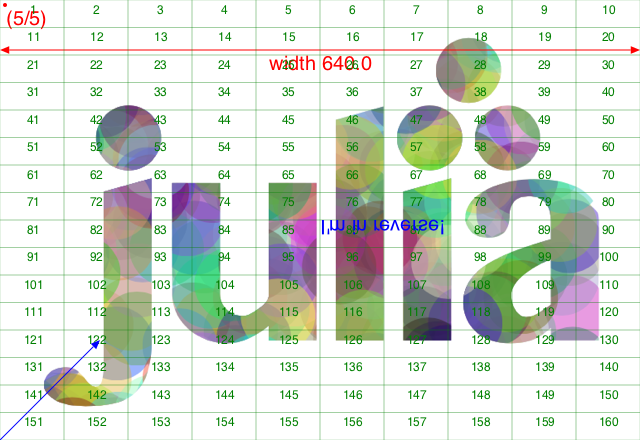
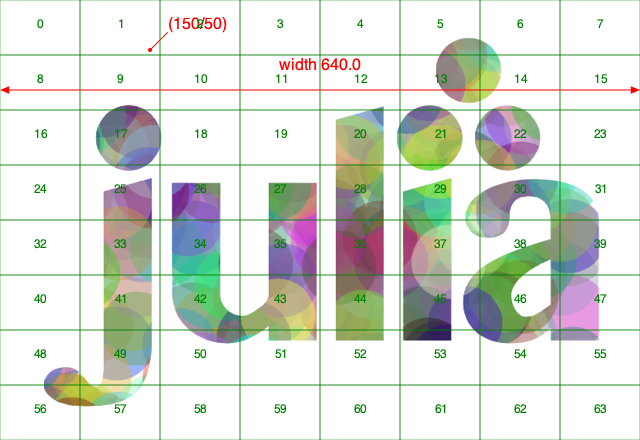
build based on 58f0cea

diff --git a/latest/index.html b/latest/index.html
@@ -1,2 +1,2 @@
 <!DOCTYPE html>
-<html lang="en"><head><meta charset="UTF-8"/><meta name="viewport" content="width=device-width, initial-scale=1.0"/><title>Introduction to Luxor · Luxor</title><link href="https://cdnjs.cloudflare.com/ajax/libs/normalize/4.2.0/normalize.min.css" rel="stylesheet" type="text/css"/><link href="https://fonts.googleapis.com/css?family=Lato|Roboto+Mono" rel="stylesheet" type="text/css"/><link href="https://cdnjs.cloudflare.com/ajax/libs/font-awesome/4.6.3/css/font-awesome.min.css" rel="stylesheet" type="text/css"/><link href="https://cdnjs.cloudflare.com/ajax/libs/highlight.js/9.12.0/styles/default.min.css" rel="stylesheet" type="text/css"/><script>documenterBaseURL="."</script><script src="https://cdnjs.cloudflare.com/ajax/libs/require.js/2.2.0/require.min.js" data-main="assets/documenter.js"></script><script src="siteinfo.js"></script><script src="../versions.js"></script><link href="assets/documenter.css" rel="stylesheet" type="text/css"/></head><body><nav class="toc"><a href="index.html"><img class="logo" src="assets/logo.png" alt="Luxor logo"/></a><h1>Luxor</h1><select id="version-selector" onChange="window.location.href=this.value" style="visibility: hidden"></select><form class="search" id="search-form" action="search.html"><input id="search-query" name="q" type="text" placeholder="Search docs"/></form><ul><li class="current"><a class="toctext" href="index.html">Introduction to Luxor</a><ul class="internal"><li><a class="toctext" href="#Installation-and-basic-usage-1">Installation and basic usage</a></li><li><a class="toctext" href="#Documentation-1">Documentation</a></li></ul></li><li><a class="toctext" href="examples.html">A few examples</a></li><li><a class="toctext" href="tutorial.html">Tutorial</a></li><li><a class="toctext" href="basics.html">Basic concepts</a></li><li><a class="toctext" href="simplegraphics.html">Simple shapes</a></li><li><a class="toctext" href="moregraphics.html">More graphics</a></li><li><a class="toctext" href="geometrytools.html">Geometry tools</a></li><li><a class="toctext" href="tables-grids.html">Tables and grids</a></li><li><a class="toctext" href="colors-styles.html">Colors and styles</a></li><li><a class="toctext" href="polygons.html">Polygons and paths</a></li><li><a class="toctext" href="text.html">Text</a></li><li><a class="toctext" href="transforms.html">Transforms and matrices</a></li><li><a class="toctext" href="clipping.html">Clipping</a></li><li><a class="toctext" href="images.html">Images</a></li><li><a class="toctext" href="turtle.html">Turtle graphics</a></li><li><a class="toctext" href="animation.html">Animation</a></li><li><a class="toctext" href="moreexamples.html">More examples</a></li><li><a class="toctext" href="functionindex.html">Index</a></li></ul></nav><article id="docs"><header><nav><ul><li><a href="index.html">Introduction to Luxor</a></li></ul><a class="edit-page" href="https://github.com/JuliaGraphics/Luxor.jl/blob/master/docs/src/index.md"><span class="fa"></span> Edit on GitHub</a></nav><hr/><div id="topbar"><span>Introduction to Luxor</span><a class="fa fa-bars" href="#"></a></div></header><h1><a class="nav-anchor" id="Introduction-to-Luxor-1" href="#Introduction-to-Luxor-1">Introduction to Luxor</a></h1><p>Luxor is a Julia package for drawing simple static vector graphics. It provides basic drawing functions and utilities for working with shapes, polygons, clipping masks, PNG images, turtle graphics, animations, and shapefiles.</p><p>The focus of Luxor is on simplicity and ease of use: it should be easier to use than plain <a href="https://github.com/JuliaLang/Cairo.jl">Cairo.jl</a>, with shorter names, fewer underscores, default contexts, and simplified functions.</p><p>Luxor is thoroughly procedural and static: your code issues a sequence of simple graphics &#39;commands&#39; until you&#39;ve completed a drawing, then the results are saved into a PDF, PNG, SVG, or EPS file.</p><p>There are some Luxor-related videos on <a href="https://www.youtube.com/channel/UCfd52kTA5JpzOEItSqXLQxg">YouTube</a>, and some Luxor-related blog posts at <a href="https://cormullion.github.io/">cormullion.github.io/</a>.</p><p>Luxor isn&#39;t interactive: for interactive graphics, look at <a href="https://github.com/JuliaGraphics/Gtk.jl">Gtk.jl</a>, <a href="https://github.com/JuliaGL/GLVisualize.jl">GLVisualize</a>, and <a href="https://github.com/JuliaPlots/Makie.jl">Makie</a>.</p><p>Please submit issues and pull requests on <a href="https://github.com/JuliaGraphics/Luxor.jl">GitHub</a>. Original version by <a href="https://github.com/cormullion">cormullion</a>, much improved with contributions from the Julia community.</p><h2><a class="nav-anchor" id="Installation-and-basic-usage-1" href="#Installation-and-basic-usage-1">Installation and basic usage</a></h2><p>Install the package using the package manager:</p><pre><code class="language-none">] add Luxor</code></pre><p>Cairo.jl and Colors.jl will be installed if necessary.</p><p>To use Luxor, type:</p><pre><code class="language-none">using Luxor</code></pre><p>To test:</p><pre><code class="language-none">julia&gt; @svg juliacircles()</code></pre><p>or</p><pre><code class="language-none">julia&gt; @png juliacircles()</code></pre><h2><a class="nav-anchor" id="Documentation-1" href="#Documentation-1">Documentation</a></h2><p>The documentation was built using <a href="https://github.com/JuliaDocs">Documenter.jl</a>.</p><div><pre><code class="language-none">Documentation built 2018-09-28T15:55:13.145 with Julia 1.0.0</code></pre></div><footer><hr/><a class="next" href="examples.html"><span class="direction">Next</span><span class="title">A few examples</span></a></footer></article></body></html>
+<html lang="en"><head><meta charset="UTF-8"/><meta name="viewport" content="width=device-width, initial-scale=1.0"/><title>Introduction to Luxor · Luxor</title><link href="https://cdnjs.cloudflare.com/ajax/libs/normalize/4.2.0/normalize.min.css" rel="stylesheet" type="text/css"/><link href="https://fonts.googleapis.com/css?family=Lato|Roboto+Mono" rel="stylesheet" type="text/css"/><link href="https://cdnjs.cloudflare.com/ajax/libs/font-awesome/4.6.3/css/font-awesome.min.css" rel="stylesheet" type="text/css"/><link href="https://cdnjs.cloudflare.com/ajax/libs/highlight.js/9.12.0/styles/default.min.css" rel="stylesheet" type="text/css"/><script>documenterBaseURL="."</script><script src="https://cdnjs.cloudflare.com/ajax/libs/require.js/2.2.0/require.min.js" data-main="assets/documenter.js"></script><script src="siteinfo.js"></script><script src="../versions.js"></script><link href="assets/documenter.css" rel="stylesheet" type="text/css"/></head><body><nav class="toc"><a href="index.html"><img class="logo" src="assets/logo.png" alt="Luxor logo"/></a><h1>Luxor</h1><select id="version-selector" onChange="window.location.href=this.value" style="visibility: hidden"></select><form class="search" id="search-form" action="search.html"><input id="search-query" name="q" type="text" placeholder="Search docs"/></form><ul><li class="current"><a class="toctext" href="index.html">Introduction to Luxor</a><ul class="internal"><li><a class="toctext" href="#Installation-and-basic-usage-1">Installation and basic usage</a></li><li><a class="toctext" href="#Documentation-1">Documentation</a></li></ul></li><li><a class="toctext" href="examples.html">A few examples</a></li><li><a class="toctext" href="tutorial.html">Tutorial</a></li><li><a class="toctext" href="basics.html">Basic concepts</a></li><li><a class="toctext" href="simplegraphics.html">Simple shapes</a></li><li><a class="toctext" href="moregraphics.html">More graphics</a></li><li><a class="toctext" href="geometrytools.html">Geometry tools</a></li><li><a class="toctext" href="tables-grids.html">Tables and grids</a></li><li><a class="toctext" href="colors-styles.html">Colors and styles</a></li><li><a class="toctext" href="polygons.html">Polygons and paths</a></li><li><a class="toctext" href="text.html">Text</a></li><li><a class="toctext" href="transforms.html">Transforms and matrices</a></li><li><a class="toctext" href="clipping.html">Clipping</a></li><li><a class="toctext" href="images.html">Images</a></li><li><a class="toctext" href="turtle.html">Turtle graphics</a></li><li><a class="toctext" href="animation.html">Animation</a></li><li><a class="toctext" href="moreexamples.html">More examples</a></li><li><a class="toctext" href="functionindex.html">Index</a></li></ul></nav><article id="docs"><header><nav><ul><li><a href="index.html">Introduction to Luxor</a></li></ul><a class="edit-page" href="https://github.com/JuliaGraphics/Luxor.jl/blob/master/docs/src/index.md"><span class="fa"></span> Edit on GitHub</a></nav><hr/><div id="topbar"><span>Introduction to Luxor</span><a class="fa fa-bars" href="#"></a></div></header><h1><a class="nav-anchor" id="Introduction-to-Luxor-1" href="#Introduction-to-Luxor-1">Introduction to Luxor</a></h1><p>Luxor is a Julia package for drawing simple static vector graphics. It provides basic drawing functions and utilities for working with shapes, polygons, clipping masks, PNG images, turtle graphics, animations, and shapefiles.</p><p>The focus of Luxor is on simplicity and ease of use: it should be easier to use than plain <a href="https://github.com/JuliaLang/Cairo.jl">Cairo.jl</a>, with shorter names, fewer underscores, default contexts, and simplified functions.</p><p>Luxor is thoroughly procedural and static: your code issues a sequence of simple graphics &#39;commands&#39; until you&#39;ve completed a drawing, then the results are saved into a PDF, PNG, SVG, or EPS file.</p><p>There are some Luxor-related videos on <a href="https://www.youtube.com/channel/UCfd52kTA5JpzOEItSqXLQxg">YouTube</a>, and some Luxor-related blog posts at <a href="https://cormullion.github.io/">cormullion.github.io/</a>.</p><p>Luxor isn&#39;t interactive: for interactive graphics, look at <a href="https://github.com/JuliaGraphics/Gtk.jl">Gtk.jl</a>, <a href="https://github.com/JuliaGL/GLVisualize.jl">GLVisualize</a>, and <a href="https://github.com/JuliaPlots/Makie.jl">Makie</a>.</p><p>Please submit issues and pull requests on <a href="https://github.com/JuliaGraphics/Luxor.jl">GitHub</a>. Original version by <a href="https://github.com/cormullion">cormullion</a>, much improved with contributions from the Julia community.</p><h2><a class="nav-anchor" id="Installation-and-basic-usage-1" href="#Installation-and-basic-usage-1">Installation and basic usage</a></h2><p>Install the package using the package manager:</p><pre><code class="language-none">] add Luxor</code></pre><p>Cairo.jl and Colors.jl will be installed if necessary.</p><p>To use Luxor, type:</p><pre><code class="language-none">using Luxor</code></pre><p>To test:</p><pre><code class="language-none">julia&gt; @svg juliacircles()</code></pre><p>or</p><pre><code class="language-none">julia&gt; @png juliacircles()</code></pre><h2><a class="nav-anchor" id="Documentation-1" href="#Documentation-1">Documentation</a></h2><p>The documentation was built using <a href="https://github.com/JuliaDocs">Documenter.jl</a>.</p><div><pre><code class="language-none">Documentation built 2018-10-03T10:18:51.167 with Julia 1.0.1</code></pre></div><footer><hr/><a class="next" href="examples.html"><span class="direction">Next</span><span class="title">A few examples</span></a></footer></article></body></html>

diff --git a/latest/search_index.js b/latest/search_index.js
@@ -757,7 +757,7 @@ var documenterSearchIndex = {"docs": [
     "page": "More graphics",
     "title": "Luxor.bars",
     "category": "function",
-    "text": "bars(values::AbstractArray;\n        yheight = 200,\n        xwidth = 25,\n        labels = true,\n        barfunction = f,\n        labelfunction = f,\n    )\n\nDraw some bars where each bar is the height of a value in the array. The bars will fit in a box yheight high (even if there are negative values).\n\nTo control the drawing of the text and bars, define functions that process the end points:\n\nmybarfunction(bottom::Point, top::Point, value; extremes=[a, b], barnumber=0, bartotal=0)\n\nmylabelfunction(bottom::Point, top::Point, value; extremes=[a, b], barnumber=0, bartotal=0)\n\nand pass them like this:\n\nbars(v, yheight=10, xwidth=10, barfunction=mybarfunction)\nbars(v, xwidth=15, yheight=10, labelfunction=mylabelfunction)\n\nTo suppress the text labels, use optional keyword labels=false.\n\n\n\n\n\n"
+    "text": "bars(values::AbstractArray;\n        yheight = 200,\n        xwidth = 25,\n        labels = true,\n        barfunction = f,\n        labelfunction = f,\n    )\n\nDraw some bars where each bar is the height of a value in the array. The bars will fit in a box yheight high (even if there are negative values).\n\nTo control the drawing of the text and bars, define functions that process the end points:\n\nmybarfunction(bottom::Point, top::Point, value; extremes=[a, b], barnumber=0, bartotal=0)\n\nmylabelfunction(bottom::Point, top::Point, value; extremes=[a, b], barnumber=0, bartotal=0)\n\nand pass them like this:\n\nbars(v, yheight=10, xwidth=10, barfunction=mybarfunction)\nbars(v, xwidth=15, yheight=10, labelfunction=mylabelfunction)\n\nor:\n\nbars(v, labelfunction = (args...; extremes=[], barnumber=0, bartotal=0) ->  setgray(rand()))\n\nTo suppress the text labels, use optional keyword labels=false.\n\n\n\n\n\n"
 },
 
 {
@@ -2381,7 +2381,15 @@ var documenterSearchIndex = {"docs": [
     "page": "Images",
     "title": "Drawing on images",
     "category": "section",
-    "text": "You sometimes want to draw over images, for example to annotate them with text or vector graphics. The things to be aware of are mostly to do with coordinates and transforms.In this example, we\'ll annotate a PNG file with some text and graphics.using Luxor # hide\n\nimage = readpng(\"assets/figures/julia-logo-mask.png\")\n\nw = image.width\nh = image.height\n\n# create a drawing surface of the same size\n\nfname = \"assets/figures/drawing_on_images.png\"\nDrawing(w, h, fname)\n\n# place the image on the Drawing - it\'s positioned by its top/left corner\n\nplaceimage(image, 0, 0)\n\n# now you can annotate the image. The (0/0) is at the top left.\n\nsethue(\"red\")\nfontsize(20)\ncircle(5, 5, 2, :fill)\ntext(\"(5/5)\", Point(25, 25), halign=:center)\n\narrow(Point(w/2, 50), Point(0, 50))\narrow(Point(w/2, 50), Point(w, 50))\ntext(\"width $w\", Point(w/2, 70), halign=:center)\n\n# to divide up the image into rectangular areas, temporarily position the axes at the center:\n\ngsave()\nsetline(0.2)\nsethue(\"green\")\nfontsize(12)\ntranslate(w/2, h/2)\ntiles = Tiler(w, h, 16, 10, margin=0)\nfor (pos, n) in tiles\n    box(pos, tiles.tilewidth, tiles.tileheight, :stroke)\n    text(string(n), pos, halign=:center)\nend\ngrestore()\n\n# If you want coordinates to be relative to the bottom left corner of the image, transform:\n\ntranslate(0, h)\n\n# and reflect in the x-axis\n\ntransform([1 0 0 -1 0 0])\n\n# now 0/0 is at the bottom left corner, and 100/100 is up and to the right.\n\nsethue(\"blue\")\narrow(O, Point(100, 100))\n\n# However, don\'t use text while flipped, because it\'s reversed:\n\ntext(\"I\'m in reverse!\", w/2, h/2)\n\nfinish() # hide\nnothing # hide(Image: drawing on images)"
+    "text": "You sometimes want to draw over images, for example to annotate them with text or vector graphics. The things to be aware of are mostly to do with coordinates and transforms.In these examples, we\'ll annotate a PNG file.using Luxor # hide\n\nimage = readpng(\"assets/figures/julia-logo-mask.png\")\n\nw = image.width\nh = image.height\n\n# create a drawing surface of the same size\n\nfname = \"drawing_on_images.png\"\nDrawing(w, h, fname)\n\n# place the image on the Drawing - it\'s positioned by its top/left corner\n\nplaceimage(image, 0, 0)\n\n# now you can annotate the image. The (0/0) is at the top left.\n\nsethue(\"red\")\nsetline(1)\nfontsize(16)\ncircle(Point(150, 50), 2, :fill)\nlabel(\"(150/50)\", :NE, Point(150, 50), leader=true, offset=25)\n\narrow(Point(w/2, 90), Point(0, 90))\narrow(Point(w/2, 90), Point(w, 90))\ntext(\"width $w\", Point(w/2, 70), halign=:center)\n\n# to divide up the image into rectangular areas and number them,\n# temporarily position the axes at the center:\n\n@layer begin\n  setline(0.5)\n  sethue(\"green\")\n  fontsize(12)\n  translate(w/2, h/2)\n  tiles = Tiler(w, h, 8, 8, margin=0)\n  for (pos, n) in tiles\n      box(pos, tiles.tilewidth, tiles.tileheight, :stroke)\n      text(string(n-1), pos, halign=:center)\n  end\nend\nfinish() # hide\nnothing # hide(Image: drawing on images)"
+},
+
+{
+    "location": "images.html#Adding-text-to-transformed-images-1",
+    "page": "Images",
+    "title": "Adding text to transformed images",
+    "category": "section",
+    "text": "The above approach works well, but suppose you want to locate the working origin at the lower left of the image, ie you want all coordinates to be relative to the bottom left corner of the image?To do this, use translate() and transform() to modify the drawing space:using Luxor # hide\n\nimage = readpng(\"assets/figures/julia-logo-mask.png\")\nw = image.width\nh = image.height\nfname = \"drawing_on_images_2.png\"\nDrawing(w, h, fname)\nplaceimage(image, 0, 0)\n\n# Move the axes to the bottom:\n\ntranslate(0, h)\n\n# and reflect in the x-axis\n\ntransform([1 0 0 -1 0 0])\n\n# now 0/0 is at the bottom left corner, and 100/100 is up and to the right.\n\nsethue(\"blue\")\narrow(Point(200, 300), Point(160, 300))\n\n# However, don\'t draw text while flipped, because it will be reversed!\n\nfontsize(20)\nsethue(\"black\")\ntext(\"Oh no!\", Point(30, 250))\n\n# To work around this, define a text function\n# that flips the workspace over the x-axis just for the text:\n\nfunction textoverlay(t, pos; kwargs...)\n    @layer begin\n        translate(pos)\n        transform([1 0 0 -1 0 0])\n        text(t, O; kwargs...)\n    end\nend\n\ntextoverlay(\"a tittle!\", Point(200, 300), halign=:left, valign=:middle)\ntextoverlay(\"0/0\", O)\narrow(Point(130, 400), Point(130, 340))\n\nfinish() # hide\n\nfinish() # hide\nnothing # hide(Image: drawing on transformed images)"
 },
 
 {

diff --git a/latest/images.html b/latest/images.html
@@ -51,14 +51,14 @@ for theta in 0:pi/6:2pi
         transform([1, 0, -pi/4, 1, 250, 0])
         placeimage(img, -w/2, -h/2, .75)
     grestore()
-end</code></pre></div><p><img src="assets/figures/transform-images.png" alt="transforming images"/></p><h2><a class="nav-anchor" id="Drawing-on-images-1" href="#Drawing-on-images-1">Drawing on images</a></h2><p>You sometimes want to draw over images, for example to annotate them with text or vector graphics. The things to be aware of are mostly to do with coordinates and transforms.</p><p>In this example, we&#39;ll annotate a PNG file with some text and graphics.</p><div><pre><code class="language-julia">image = readpng(&quot;assets/figures/julia-logo-mask.png&quot;)
+end</code></pre></div><p><img src="assets/figures/transform-images.png" alt="transforming images"/></p><h2><a class="nav-anchor" id="Drawing-on-images-1" href="#Drawing-on-images-1">Drawing on images</a></h2><p>You sometimes want to draw over images, for example to annotate them with text or vector graphics. The things to be aware of are mostly to do with coordinates and transforms.</p><p>In these examples, we&#39;ll annotate a PNG file.</p><div><pre><code class="language-julia">image = readpng(&quot;assets/figures/julia-logo-mask.png&quot;)
 
 w = image.width
 h = image.height
 
 # create a drawing surface of the same size
 
-fname = &quot;assets/figures/drawing_on_images.png&quot;
+fname = &quot;drawing_on_images.png&quot;
 Drawing(w, h, fname)
 
 # place the image on the Drawing - it&#39;s positioned by its top/left corner
@@ -68,29 +68,36 @@ placeimage(image, 0, 0)
 # now you can annotate the image. The (0/0) is at the top left.
 
 sethue(&quot;red&quot;)
-fontsize(20)
-circle(5, 5, 2, :fill)
-text(&quot;(5/5)&quot;, Point(25, 25), halign=:center)
+setline(1)
+fontsize(16)
+circle(Point(150, 50), 2, :fill)
+label(&quot;(150/50)&quot;, :NE, Point(150, 50), leader=true, offset=25)
 
-arrow(Point(w/2, 50), Point(0, 50))
-arrow(Point(w/2, 50), Point(w, 50))
+arrow(Point(w/2, 90), Point(0, 90))
+arrow(Point(w/2, 90), Point(w, 90))
 text(&quot;width $w&quot;, Point(w/2, 70), halign=:center)
 
-# to divide up the image into rectangular areas, temporarily position the axes at the center:
+# to divide up the image into rectangular areas and number them,
+# temporarily position the axes at the center:
 
-gsave()
-setline(0.2)
-sethue(&quot;green&quot;)
-fontsize(12)
-translate(w/2, h/2)
-tiles = Tiler(w, h, 16, 10, margin=0)
-for (pos, n) in tiles
-    box(pos, tiles.tilewidth, tiles.tileheight, :stroke)
-    text(string(n), pos, halign=:center)
-end
-grestore()
+@layer begin
+  setline(0.5)
+  sethue(&quot;green&quot;)
+  fontsize(12)
+  translate(w/2, h/2)
+  tiles = Tiler(w, h, 8, 8, margin=0)
+  for (pos, n) in tiles
+      box(pos, tiles.tilewidth, tiles.tileheight, :stroke)
+      text(string(n-1), pos, halign=:center)
+  end
+end</code></pre></div><p><img src="assets/figures/drawing_on_images.png" alt="drawing on images"/></p><h3><a class="nav-anchor" id="Adding-text-to-transformed-images-1" href="#Adding-text-to-transformed-images-1">Adding text to transformed images</a></h3><p>The above approach works well, but suppose you want to locate the working origin at the lower left of the image, ie you want all coordinates to be relative to the bottom left corner of the image?</p><p>To do this, use <code>translate()</code> and <code>transform()</code> to modify the drawing space:</p><div><pre><code class="language-julia">image = readpng(&quot;assets/figures/julia-logo-mask.png&quot;)
+w = image.width
+h = image.height
+fname = &quot;drawing_on_images_2.png&quot;
+Drawing(w, h, fname)
+placeimage(image, 0, 0)
 
-# If you want coordinates to be relative to the bottom left corner of the image, transform:
+# Move the axes to the bottom:
 
 translate(0, h)
 
@@ -101,11 +108,28 @@ transform([1 0 0 -1 0 0])
 # now 0/0 is at the bottom left corner, and 100/100 is up and to the right.
 
 sethue(&quot;blue&quot;)
-arrow(O, Point(100, 100))
+arrow(Point(200, 300), Point(160, 300))
 
-# However, don&#39;t use text while flipped, because it&#39;s reversed:
+# However, don&#39;t draw text while flipped, because it will be reversed!
 
-text(&quot;I&#39;m in reverse!&quot;, w/2, h/2)</code></pre></div><p><img src="assets/figures/drawing_on_images.png" alt="drawing on images"/></p><h2><a class="nav-anchor" id="Image-compositing-1" href="#Image-compositing-1">Image compositing</a></h2><p>You should be using <a href="https://github.com/JuliaImages">Images.jl</a> for most tasks involving image editing. But if you just need to composite images together, you can use the blending modes provided by <code>setmode()</code>.</p><div><pre><code class="language-julia">img = readpng(&quot;assets/figures/textcurvecenteredexample.png&quot;)
+fontsize(20)
+sethue(&quot;black&quot;)
+text(&quot;Oh no!&quot;, Point(30, 250))
+
+# To work around this, define a text function
+# that flips the workspace over the x-axis just for the text:
+
+function textoverlay(t, pos; kwargs...)
+    @layer begin
+        translate(pos)
+        transform([1 0 0 -1 0 0])
+        text(t, O; kwargs...)
+    end
+end
+
+textoverlay(&quot;a tittle!&quot;, Point(200, 300), halign=:left, valign=:middle)
+textoverlay(&quot;0/0&quot;, O)
+arrow(Point(130, 400), Point(130, 340))</code></pre></div><p><img src="assets/figures/drawing_on_images_2.png" alt="drawing on transformed images"/></p><h2><a class="nav-anchor" id="Image-compositing-1" href="#Image-compositing-1">Image compositing</a></h2><p>You should be using <a href="https://github.com/JuliaImages">Images.jl</a> for most tasks involving image editing. But if you just need to composite images together, you can use the blending modes provided by <code>setmode()</code>.</p><div><pre><code class="language-julia">img = readpng(&quot;assets/figures/textcurvecenteredexample.png&quot;)
 w = img.width
 h = img.height
 

diff --git a/latest/moregraphics.html b/latest/moregraphics.html
@@ -67,7 +67,7 @@ bars(v, xwidth=25, barfunction=mybarfunction, labelfunction=mylabelfunction)</co
         barfunction = f,
         labelfunction = f,
     )</code></pre><p>Draw some bars where each bar is the height of a value in the array. The bars will fit in a box <code>yheight</code> high (even if there are negative values).</p><p>To control the drawing of the text and bars, define functions that process the end points:</p><p><code>mybarfunction(bottom::Point, top::Point, value; extremes=[a, b], barnumber=0, bartotal=0)</code></p><p><code>mylabelfunction(bottom::Point, top::Point, value; extremes=[a, b], barnumber=0, bartotal=0)</code></p><p>and pass them like this:</p><pre><code class="language-julia">bars(v, yheight=10, xwidth=10, barfunction=mybarfunction)
-bars(v, xwidth=15, yheight=10, labelfunction=mylabelfunction)</code></pre><p>To suppress the text labels, use optional keyword <code>labels=false</code>.</p></div></div></section><h2><a class="nav-anchor" id="Box-maps-1" href="#Box-maps-1">Box maps</a></h2><p>The <code>boxmap()</code> function divides a rectangular area into a sorted arrangement of smaller boxes or tiles based on the values of elements in an array.</p><p>This example uses the Fibonacci sequence to determine the area of the boxes. Notice that the values are sorted in reverse, and are scaled to fit in the available area.</p><div><pre><code class="language-julia">fib = [1, 1, 2, 3, 5, 8, 13, 21, 34, 55, 89, 144]
+bars(v, xwidth=15, yheight=10, labelfunction=mylabelfunction)</code></pre><p>or:</p><pre><code class="language-none">bars(v, labelfunction = (args...; extremes=[], barnumber=0, bartotal=0) -&gt;  setgray(rand()))</code></pre><p>To suppress the text labels, use optional keyword <code>labels=false</code>.</p></div></div></section><h2><a class="nav-anchor" id="Box-maps-1" href="#Box-maps-1">Box maps</a></h2><p>The <code>boxmap()</code> function divides a rectangular area into a sorted arrangement of smaller boxes or tiles based on the values of elements in an array.</p><p>This example uses the Fibonacci sequence to determine the area of the boxes. Notice that the values are sorted in reverse, and are scaled to fit in the available area.</p><div><pre><code class="language-julia">fib = [1, 1, 2, 3, 5, 8, 13, 21, 34, 55, 89, 144]
 
 # make a boxmap and store the tiles
 tiles = boxmap(fib, BoundingBox()[1], 800, 450)
